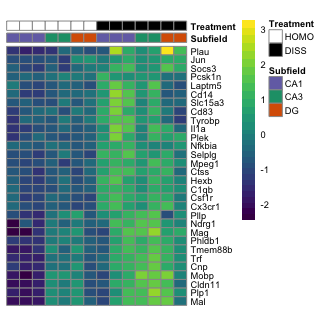
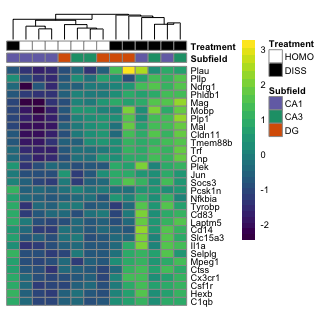
add ecludean clustering

diff --git a/scripts/03_heatmaps.md b/scripts/03_heatmaps.md
@@ -59,14 +59,14 @@ expressed according to treatment.
              annotation_col=df, annotation_colors = ann_colors, 
              annotation_row = NA, annotation_legend = TRUE,
              annotation_names_row = FALSE, annotation_names_col = TRUE,
-             treeheight_row = 0, treeheight_col = 10,
+             treeheight_row = 0, treeheight_col = 15,
              fontsize = 7,
              border_color = "grey60" ,
              color = viridis(30),
-             clustering_method="average",
+             clustering_method="median",
              breaks=myBreaks,
-             clustering_distance_cols="correlation", 
-             cluster_cols = F,
+             clustering_distance_cols="euclidean", 
+             cluster_cols = T,
              main = main)  
     }
 
@@ -222,15 +222,15 @@ expressed according to treatment.
              annotation_col=df, annotation_colors = ann_colors, 
              annotation_row = NA, annotation_legend = TRUE,
              annotation_names_row = FALSE, annotation_names_col = TRUE,
-             treeheight_row = 0, treeheight_col = 10,
+             treeheight_row = 0, treeheight_col = 5,
              fontsize = 7, 
              border_color = "grey60" ,
              color = viridis(30),
              width=3.5, height=3.5,
-             clustering_method="average",
+             clustering_method="median",
              breaks=myBreaks,
-             clustering_distance_cols="correlation", 
-             cluster_cols = F,
+             clustering_distance_cols="euclidean", 
+             cluster_cols = T,
              main = main,
              filename =  myfile)
     }
